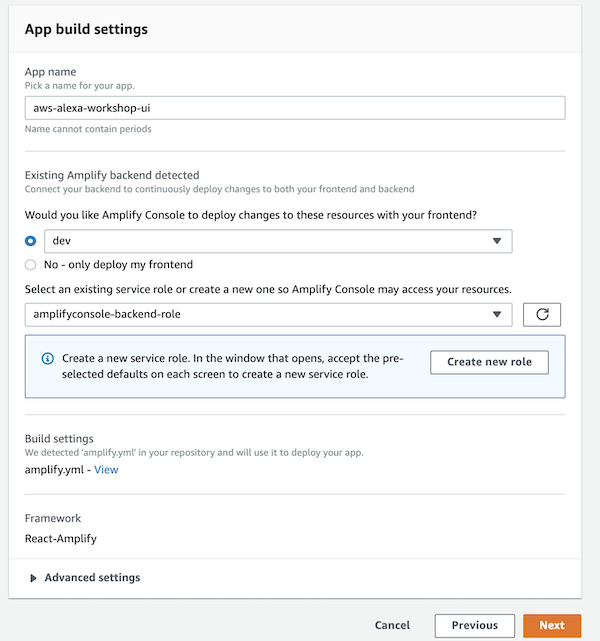
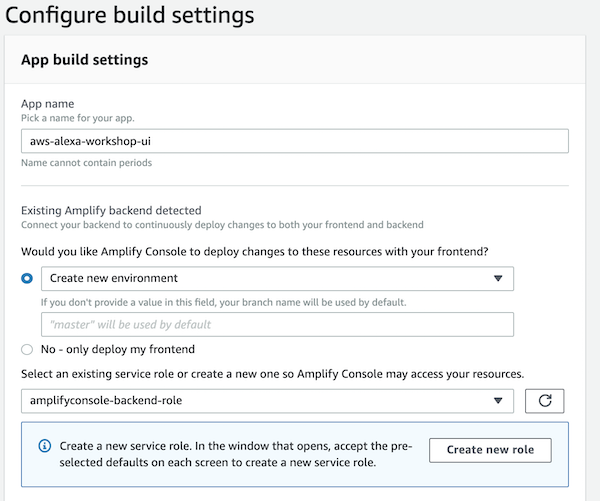
add README.md

diff --git a/README.md b/README.md
@@ -10,41 +10,21 @@ When bind a device to a user, it will invoke the API and create an record in Dyn
 your device cloud receive a [Alexa.Discovery](https://developer.amazon.com/docs/device-apis/alexa-discovery.html)
 directive, your Lambda should retrieve from this DynamoDB table and return to Alexa.
 
-## How to Run 
-
-In this application, **Yarn** and **node.js** are used to build the application. Please install the [Yarn](https://yarnpkg.com/en/) and [node.js](https://nodejs.org/en/). 
-The easiest way to install nodejs is [NVM](https://github.com/nvm-sh/nvm).
-
-The backend is provisioned via [AWS Amplify CLI](https://github.com/aws-amplify/amplify-cli#install-the-cli). The easiest way to install is via **npm**. If you install nodejs via NVM, it will come with **npm**.
-
-### Install
-
-1. Init the backend. Run `amplify init`, enter **dev** for environment name
-1. Choose your **default editor** and **AWS profile**. Wait for the initialization finished
-![](docs/amplify-init.png)
-1. Run `amplify push` and type **Yes** when asked to confirm
-1. Click **Enter** button to keep the all the rest default settings
-![](docs/amplify-push.png)
-1. Run `yarn install` to install dependencies
-1. Run `yarn start` to start the web application
-
-Open [http://localhost:3000/?deviceId=xxxxxxxx](http://localhost:3000/?deviceId=xxxxxxxx) to view it in the browser.
-
-If you are the first time to run the web application. You should click the **Create account** button to create an account.
-
-### Deployment
+## How to Run
 
 This is a [modern web application](https://docs.aws.amazon.com/amplify/latest/userguide/welcome.html#what-are-modern-web-applications),
 thus the easiest way for deployment is [AWS Amplify Console](https://docs.aws.amazon.com/amplify/latest/userguide/welcome.html).
 
-1. Git push your code to **GitHub**, **BitBucket**, **GitLab** or **CodeCommit**
+### Deployment
+
+1. Git push your code to **GitHub**, **BitBucket**, **GitLab** or **CodeCommit**. You can fork this repo on GitHub.
 1. Open **Amplify Console** in AWS Console, click **Get started** in **Deploy** session
 ![](docs/amplify-console-get-started.png)
 1. Choose the Git repo provider and select **Continue**
 1. Choose the repo and branch, select **Next**
 ![](docs/amplify-console-repo.png)
 1. Input **App name**
-1. Choose the environment, or create a new one if not exits
+1. Create a new environment, input the **environment name** of leave it as default
 1. Select or create a new service role, and click **Next**
 ![](docs/amplify-console-settings.png)
 1. Click **Save and deploy**
@@ -63,3 +43,27 @@ the **Bind** button to link the device to your account.
 
 ![](docs/device-bind.jpg)
 
+
+## Development
+
+You will ONLY need to run this if you would like to develop locally.
+
+In this application, **Yarn** and **node.js** are used to build the application. 
+Please install the [Yarn](https://yarnpkg.com/en/) and [node.js](https://nodejs.org/en/). 
+The easiest way to install nodejs is [NVM](https://github.com/nvm-sh/nvm).
+
+The backend is provisioned via [AWS Amplify CLI](https://github.com/aws-amplify/amplify-cli#install-the-cli). 
+The easiest way to install is via **npm**. If you install nodejs via NVM, it will come with **npm**.
+
+1. Init the backend. Run `amplify init`, enter **dev** for environment name
+1. Choose your **default editor** and **AWS profile**. Wait for the initialization finished
+![](docs/amplify-init.png)
+1. Run `amplify push` and type **Yes** when asked to confirm
+1. Click **Enter** button to keep the all the rest default settings
+![](docs/amplify-push.png)
+1. Run `yarn install` to install dependencies
+1. Run `yarn start` to start the web application
+
+Open [http://localhost:3000/?deviceId=xxxxxxxx](http://localhost:3000/?deviceId=xxxxxxxx) to view it in the browser.
+
+If you are the first time to run the web application. You should click the **Create account** button to create an account.
